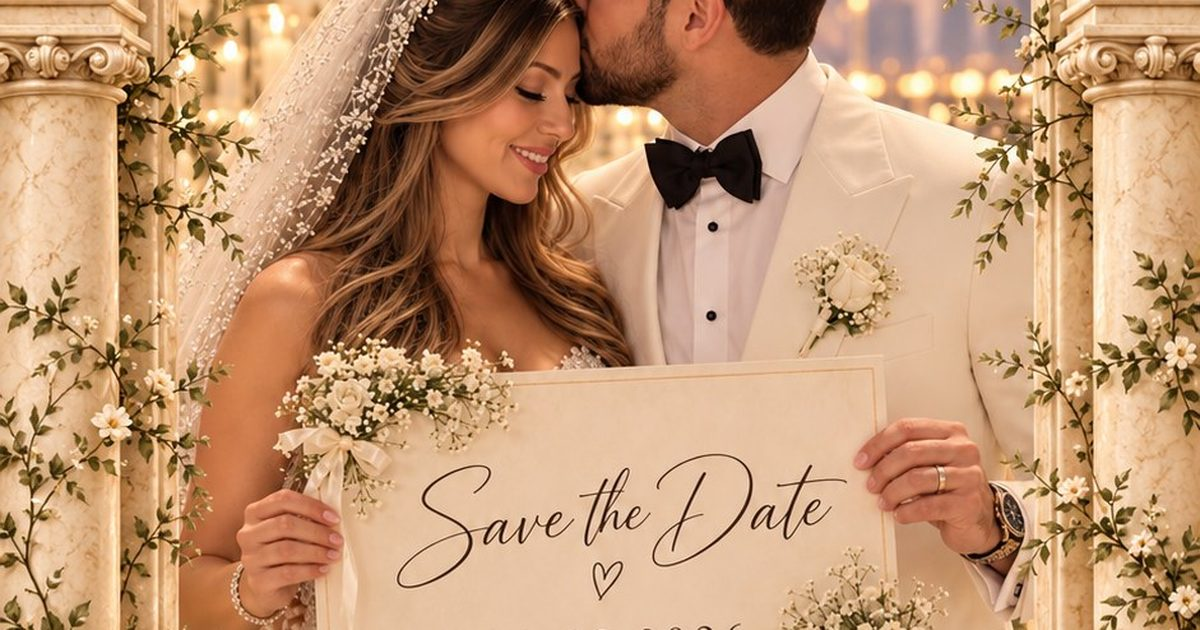
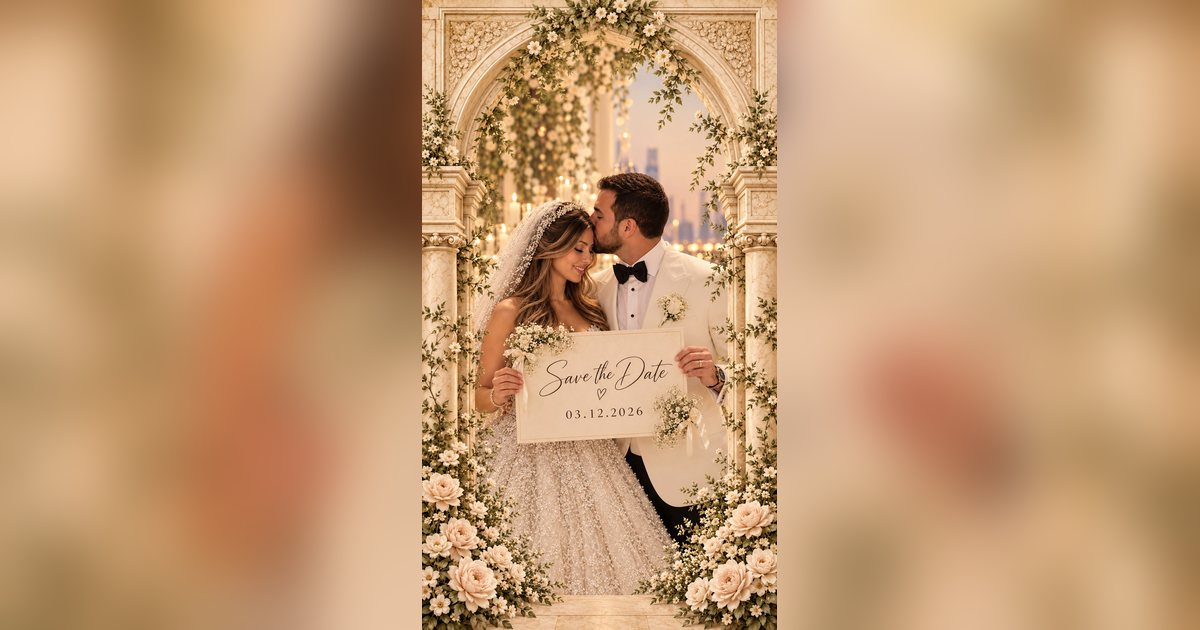
laaaaasssssstyttt

diff --git a/index.html b/index.html
@@ -4,23 +4,23 @@
   <meta charset="utf-8" />
   <meta name="viewport" content="width=device-width, initial-scale=1, viewport-fit=cover" />
   <meta name="theme-color" content="#eee6dc" />
-  <title>Muhsen &amp; Samar — Wedding Invitation</title>
-  <meta name="description" content="You are warmly invited to the wedding of Muhsen &amp; Samar — 3 December 2026, Taj Exotica Resort &amp; Spa, The Palm, Dubai.">
+  <title>Muhsen &amp; Samar — Wedding Invitation | دعوة زفاف محسن وسمر</title>
+  <meta name="description" content="You are warmly invited to our wedding — 3 December 2026, Dubai. | ندعوكم لحضور حفل زفافنا — 3 ديسمبر 2026، دبي">
 
   <!-- link preview (WhatsApp / iMessage / Facebook / Telegram / X) -->
   <meta property="og:type" content="website">
-  <meta property="og:site_name" content="Muhsen &amp; Samar — Wedding Invitation">
-  <meta property="og:title" content="Muhsen &amp; Samar — Wedding Invitation">
-  <meta property="og:description" content="You are warmly invited to our wedding — 3 December 2026, Dubai.">
+  <meta property="og:site_name" content="Muhsen &amp; Samar — Wedding Invitation | دعوة زفاف محسن وسمر">
+  <meta property="og:title" content="Muhsen &amp; Samar — Wedding Invitation | دعوة زفاف محسن وسمر">
+  <meta property="og:description" content="You are warmly invited to our wedding — 3 December 2026, Dubai. | ندعوكم لحضور حفل زفافنا — 3 ديسمبر 2026، دبي">
   <meta property="og:url" content="https://muhsen-samar-wedding.pages.dev/">
-  <meta property="og:image" content="https://muhsen-samar-wedding.pages.dev/og-image.jpg">
+  <meta property="og:image" content="https://muhsen-samar-wedding.pages.dev/og-image.jpg?v=2">
   <meta property="og:image:type" content="image/jpeg">
   <meta property="og:image:width" content="1200">
   <meta property="og:image:height" content="630">
   <meta property="og:image:alt" content="Muhsen &amp; Samar — Save the Date 03.12.2026">
   <meta name="twitter:card" content="summary_large_image">
-  <meta name="twitter:title" content="Muhsen &amp; Samar — Wedding Invitation">
-  <meta name="twitter:image" content="https://muhsen-samar-wedding.pages.dev/og-image.jpg">
+  <meta name="twitter:title" content="Muhsen &amp; Samar — Wedding Invitation | دعوة زفاف محسن وسمر">
+  <meta name="twitter:image" content="https://muhsen-samar-wedding.pages.dev/og-image.jpg?v=2">
 
   <link rel="preconnect" href="https://fonts.googleapis.com">
   <link rel="preconnect" href="https://fonts.gstatic.com" crossorigin>
